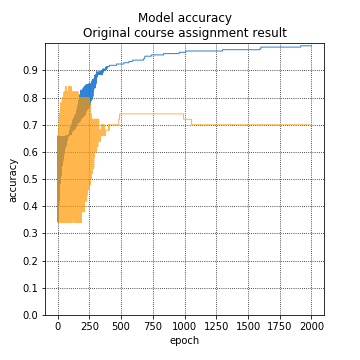
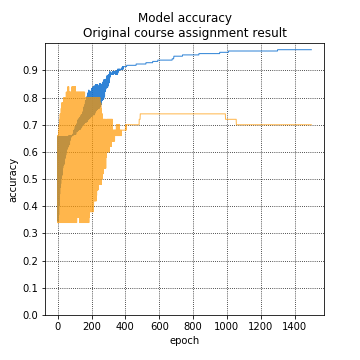
daily upload

diff --git a/catDetectorModelUtils.py b/catDetectorModelUtils.py
@@ -9,7 +9,7 @@ from keras.models import Sequential
 from keras.layers import Dense
 from keras.initializers import RandomUniform
 from keras.callbacks import EarlyStopping, ModelCheckpoint, ReduceLROnPlateau
-from keras.optimizers import TFOptimizer
+from keras.optimizers import Adam, TFOptimizer
 #from keras import regularizers
 
 
@@ -26,7 +26,7 @@ def model_define(input_dim, initializer='zeros', activation='sigmoid'):
     """
     
     if initializer == 'random_uniform':
-        RandomUniform(minval=-1.0, maxval=1.0, seed=None)
+        initializer = RandomUniform(minval=-1.0, maxval=1.0, seed=None)
     model = Sequential()
     # single neuron model definition
     model.add(Dense(1,
@@ -51,6 +51,7 @@ def model_compile(model, loss='binary_crossentropy', lr=0.005):
     Returns:
         model: Compiled model.
     """
+
     optimizer = TFOptimizer(tf.train.GradientDescentOptimizer(lr))
     model.compile(loss=loss,
                   optimizer=optimizer,
@@ -64,8 +65,7 @@ def model_fit(model, train_x, train_y, test_x, test_y,
               cb_stopper=[False],
               cb_checkpointer=[False],
               cb_reduce_lr=[False],
-              verbose=0,
-              prefix=False):
+              verbose=0):
     """ Model fitting
 
     Arguments:
@@ -84,7 +84,8 @@ def model_fit(model, train_x, train_y, test_x, test_y,
             Default: [False].
         cb_checkpointer (list): List of checkpointer callback parameters.
             First element determines if checkpointer has to be used.
-            [True/False, save_best_only, save_weights_only, mode].
+            [True/False, prefix, monitor, save_best_only, save_weights_only, 
+            mode].
             Default: [False].
         cb_reduce_lr (list): List of reduce_lr callback parameters for
             ReduceLROnPlateau.
@@ -93,8 +94,6 @@ def model_fit(model, train_x, train_y, test_x, test_y,
             Default: [False].
         verbose: 0, 1 or 2. Verbosity mode.
             0 = silent, 1 = progress bar, 2 = one line per epoch.
-        prefix (boolean): Defines if metrics should be added to checkpointer
-            callback h5 files.
 
     Returns:
         model: Fitted model.
@@ -106,7 +105,7 @@ def model_fit(model, train_x, train_y, test_x, test_y,
         stopper = EarlyStopping(monitor='acc', patience=cb_stopper[1])
         callbacks.append(stopper)
     if cb_checkpointer[0]:
-        if prefix:
+        if cb_checkpointer[1]:
             metrics = '{acc:.4f}-{val_acc:.4f}-'
         else:
             metrics = ''
@@ -114,10 +113,10 @@ def model_fit(model, train_x, train_y, test_x, test_y,
         title = title.replace(' ', '-')
         file = path + metrics + title + '.h5'
         checkpointer = ModelCheckpoint(filepath=file,
-                                       monitor='acc',
-                                       save_best_only=cb_checkpointer[1],
-                                       save_weights_only=cb_checkpointer[2],
-                                       mode=cb_checkpointer[3])
+                                       monitor=cb_checkpointer[2],
+                                       save_best_only=cb_checkpointer[3],
+                                       save_weights_only=cb_checkpointer[4],
+                                       mode=cb_checkpointer[5])
         callbacks.append(checkpointer)
     if cb_reduce_lr[0]:
         reduce_lr = ReduceLROnPlateau(monitor='acc',

diff --git a/catDetector.py b/catDetector.py
@@ -21,7 +21,7 @@ train_x, train_y, test_x, test_y = load_data()
 """ Find most efficient batch size. """
 
 # Model compile variables
-lr=0.005
+lr = 0.005
 # Model fitting variables
 path = ''
 title = ''
@@ -50,18 +50,22 @@ print("\nMost efficient batch size is:", batch_size)
 #%%
 """ Asssignment in Keras. """
 
+# Model compile variables
+lr = 0.005
 # Model fitting variables
 path = 'originalAssignment\\'
 title = 'Original course assignment result'
-epochs = 2000
-
+epochs = 1500
+time_start = time.time()
 model = model_define(train_x.shape[1])
 model = model_compile(model, lr=lr)
-_, history = model_fit(model, train_x, train_y, test_x, test_y,
+model, history = model_fit(model, train_x, train_y, test_x, test_y,
                        path, title,
                        epochs=epochs, batch_size=batch_size)
+time_end = time.time() - time_start
+print('Training time: %4.2f sec.' % (time_end))
 history_set = [history]
-history_plot(history_set, path, title, acc=True, val_acc=True)
+history_plot(history_set, path, title, acc=True, val_acc=True, show=True)
 
 #%%
 """ Datasets discussion. """
@@ -88,19 +92,33 @@ print('Cat images in testing set: %2d%% (%2d/%2d).' % (test_pcnt,
                                                        test_size))
 
 #%%
-""" Hyperparameter tuning.
-"""
-# Model compilation variables
-lr = 0.0001
-# Model fitting variables
-path = 'lrTuning\\'
-title = 'Learning rate: ' + str(lr)
-epochs = 100000
+""" Sampling hypersurface with random initialization (uniform). """
 
-model = model_define(train_x.shape[1])
-model = model_compile(model, lr=lr)
-_, history = model_fit(model, train_x, train_y, test_x, test_y,
-                       path, title,
-                       epochs=epochs, batch_size=batch_size)
-history_set = [history]
-history_plot(history_set, path, title, acc=True, val_acc=True)
+# Model define variables
+initializer = 'random_uniform'
+# Model fitting variables
+cb_checkpointer = [True, True, 'acc', True, True, 'max']
+cb_stopper = [True, 1000]
+path = 'samplingHypersurface\\'
+epochs = 3000
+verbose = 0
+
+history_set = []
+
+for i in range(1, 101):
+    time_start = time.time()
+    
+    i_str = (3 - int(np.log10(i))) * '0' + str(i)
+    title = 'sampling iteration: ' + i_str
+    model = model_define(train_x.shape[1], initializer=initializer)
+    model = model_compile(model, lr=lr)
+    model, history = model_fit(model, train_x, train_y, test_x, test_y,
+                           path, title,
+                           epochs=epochs, batch_size=batch_size,
+                           cb_checkpointer=cb_checkpointer,
+                           verbose=verbose)
+    time_end = time.time() - time_start
+    print('Iteration %d, training time: %4.2f sec.' % (i, time_end))
+    history_set += [[i, history]]
+title = 'sampling hypersurface'
+history_plot(history_set, path, title, acc=True, val_acc=True, show=True)

diff --git a/catDetectorChartUtils.py b/catDetectorChartUtils.py
@@ -5,13 +5,15 @@ Created on Sat Mar 10 15:14:47 2018
 @author: tom.s (at) halina9000.com
 """
 import matplotlib.pyplot as plt
+from PIL import Image
 import numpy as np
 
 
 def history_plot(history_set, path, title, 
                  y_min=0.0, y_max=1.0, 
                  acc=True, val_acc=False,
-                 alpha_acc=0.9, alpha_val_acc=0.7):
+                 alpha_acc=0.9, alpha_val_acc=0.7,
+                 show=False):
     """Summarizes history of model(s)
     
     Generates history of model(s) accuracy as a plot and saves it to file.
@@ -26,6 +28,11 @@ def history_plot(history_set, path, title,
             on chart. Default: True.
         val_acc (boolean): Defines if accuracy on test set should be present
             on chart. Default: False.
+        alpha_acc (float): value of alpha for accuracy on training set plot. 
+            Range 0.0 - 1.0.
+        alpha_val_acc (float): value of alpha for accuracy on test set plot. 
+            Range 0.0 - 1.0.
+        show (boolean): True if saved chart should be shown. Default: False.
     """
 
     # plot 10 ticks on y axis    
@@ -42,7 +49,7 @@ def history_plot(history_set, path, title,
     plt.ylabel('accuracy')
     plt.xlabel('epoch')
     
-    for history in history_set:
+    for _, history in history_set:
         if acc:
             plt.plot(history.history['acc'], 
                      c='#1976D2', 
@@ -53,7 +60,11 @@ def history_plot(history_set, path, title,
                      c='#FF9800', 
                      linewidth=1,
                      alpha=alpha_val_acc)
-    title = title.replace(':', '_')                 
+    title = title.replace('-', '')
+    title = title.replace(':', '')                 
     title = title.replace(' ', '_')
     plt.savefig(path + title + '.png')
     plt.close()
+    if show:
+        img = Image.open(path + title + '.png')
+        img.show()
